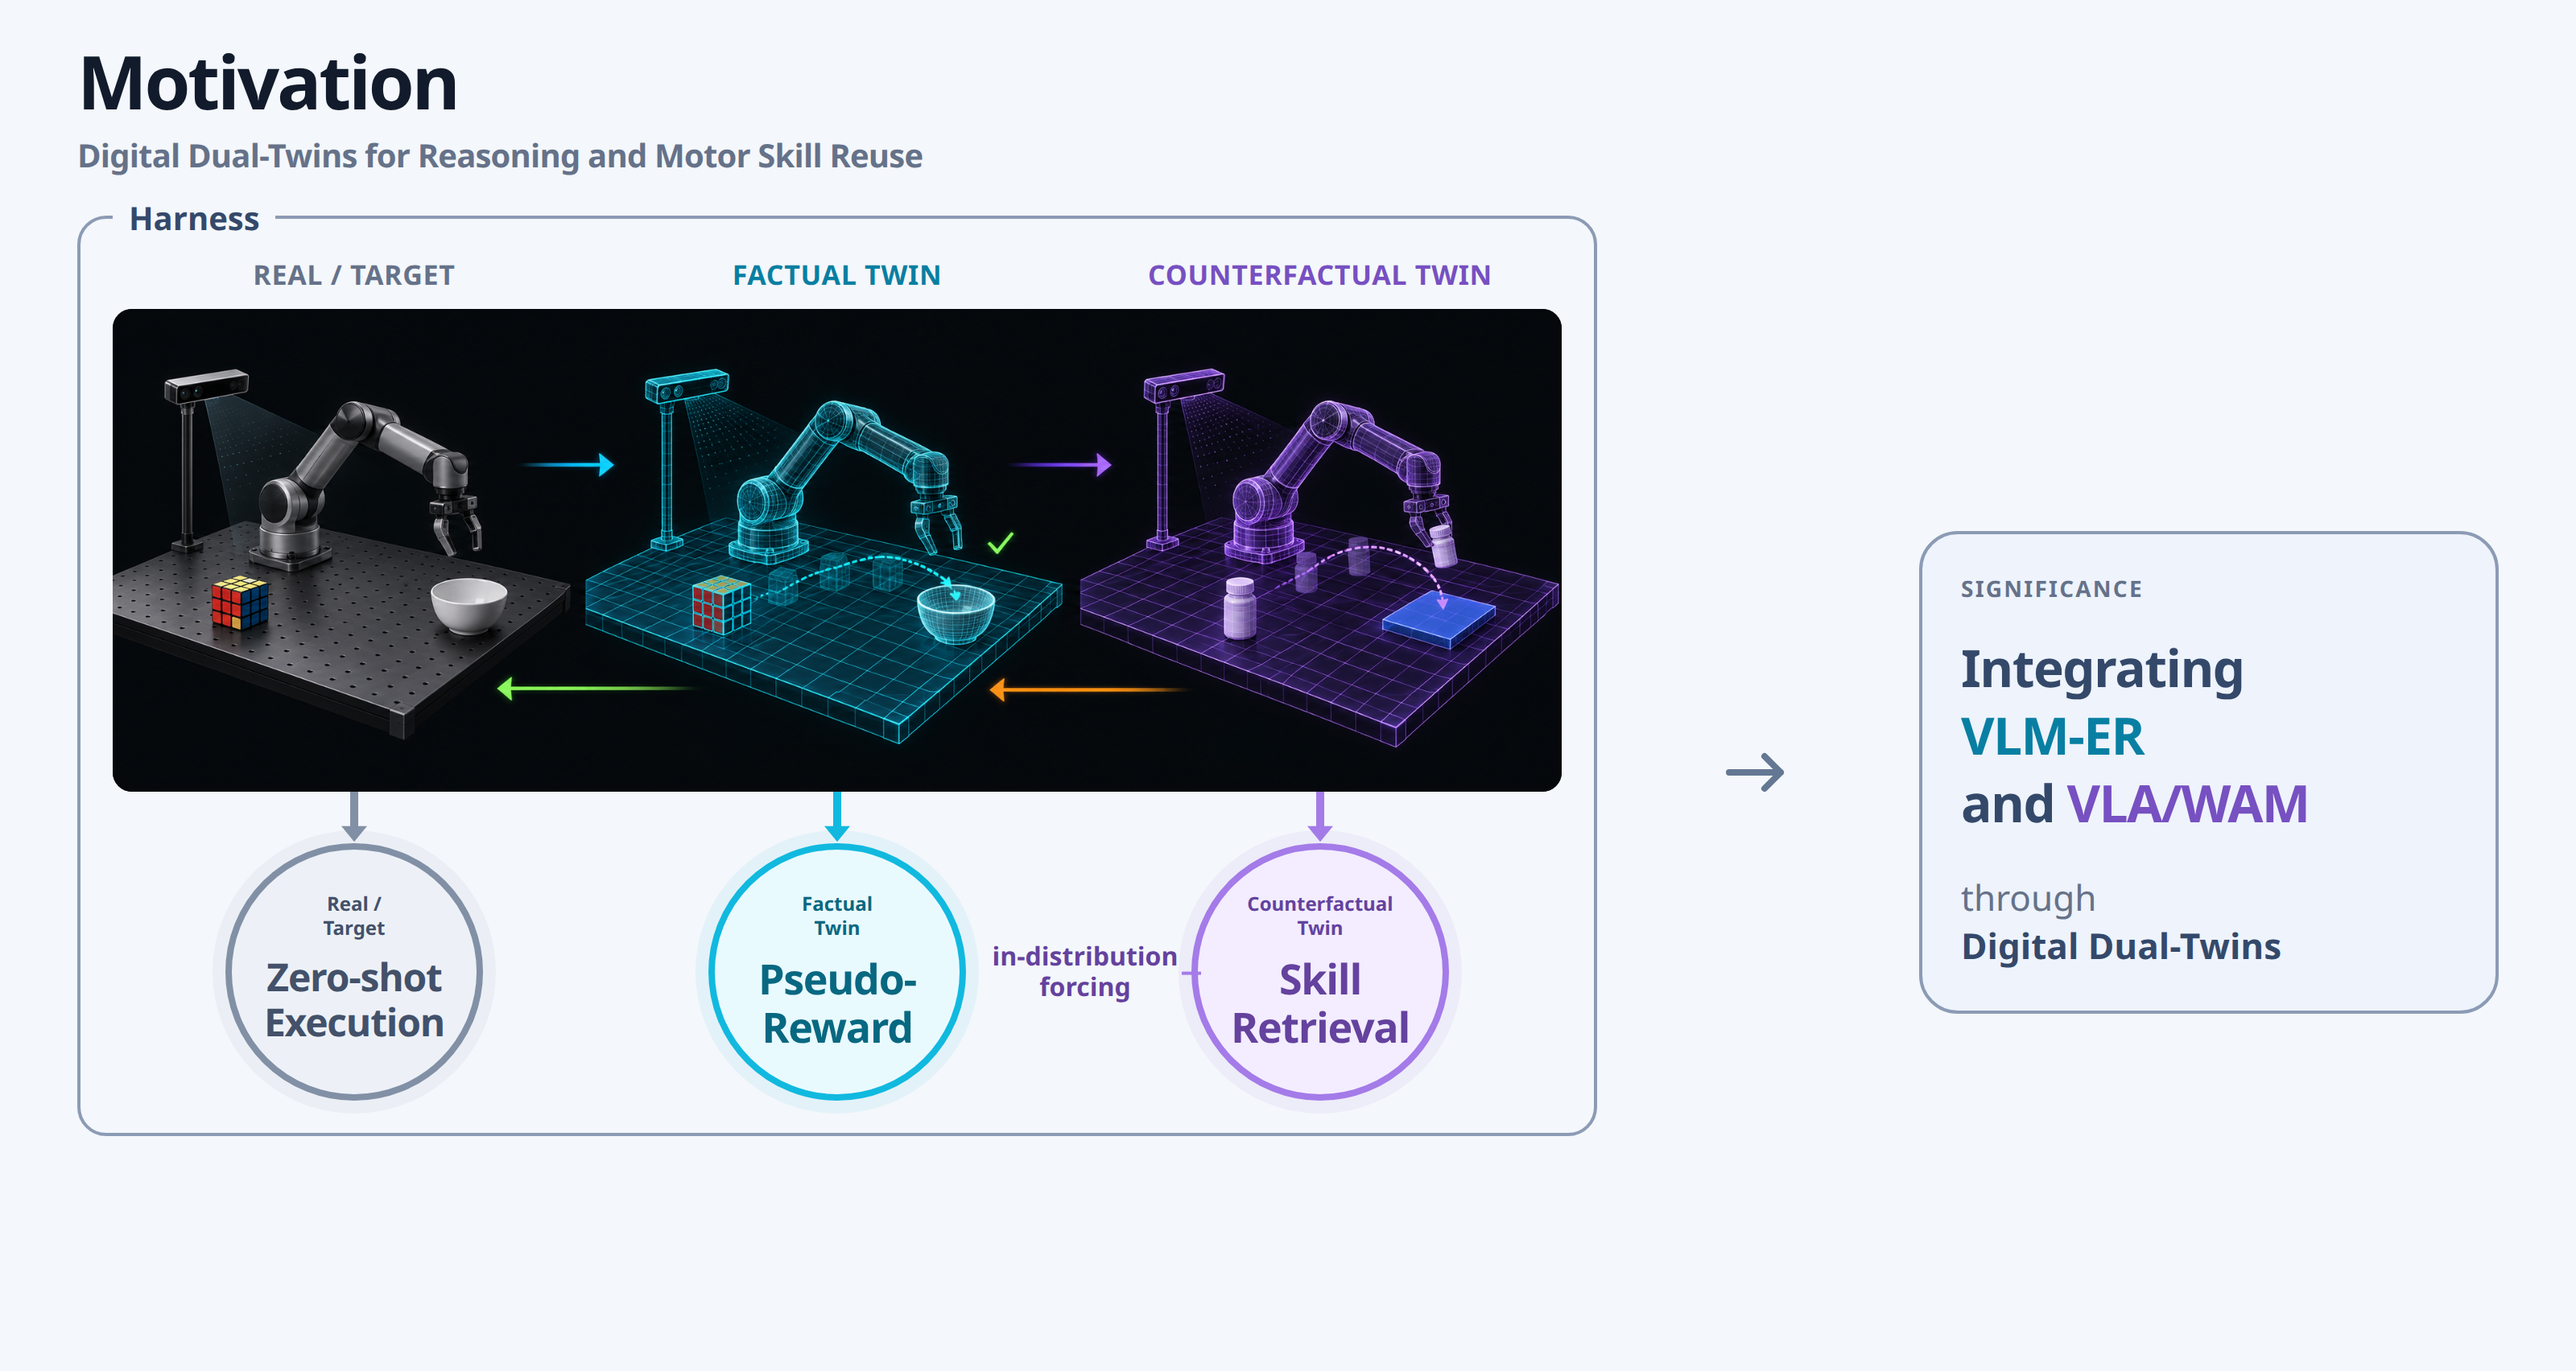
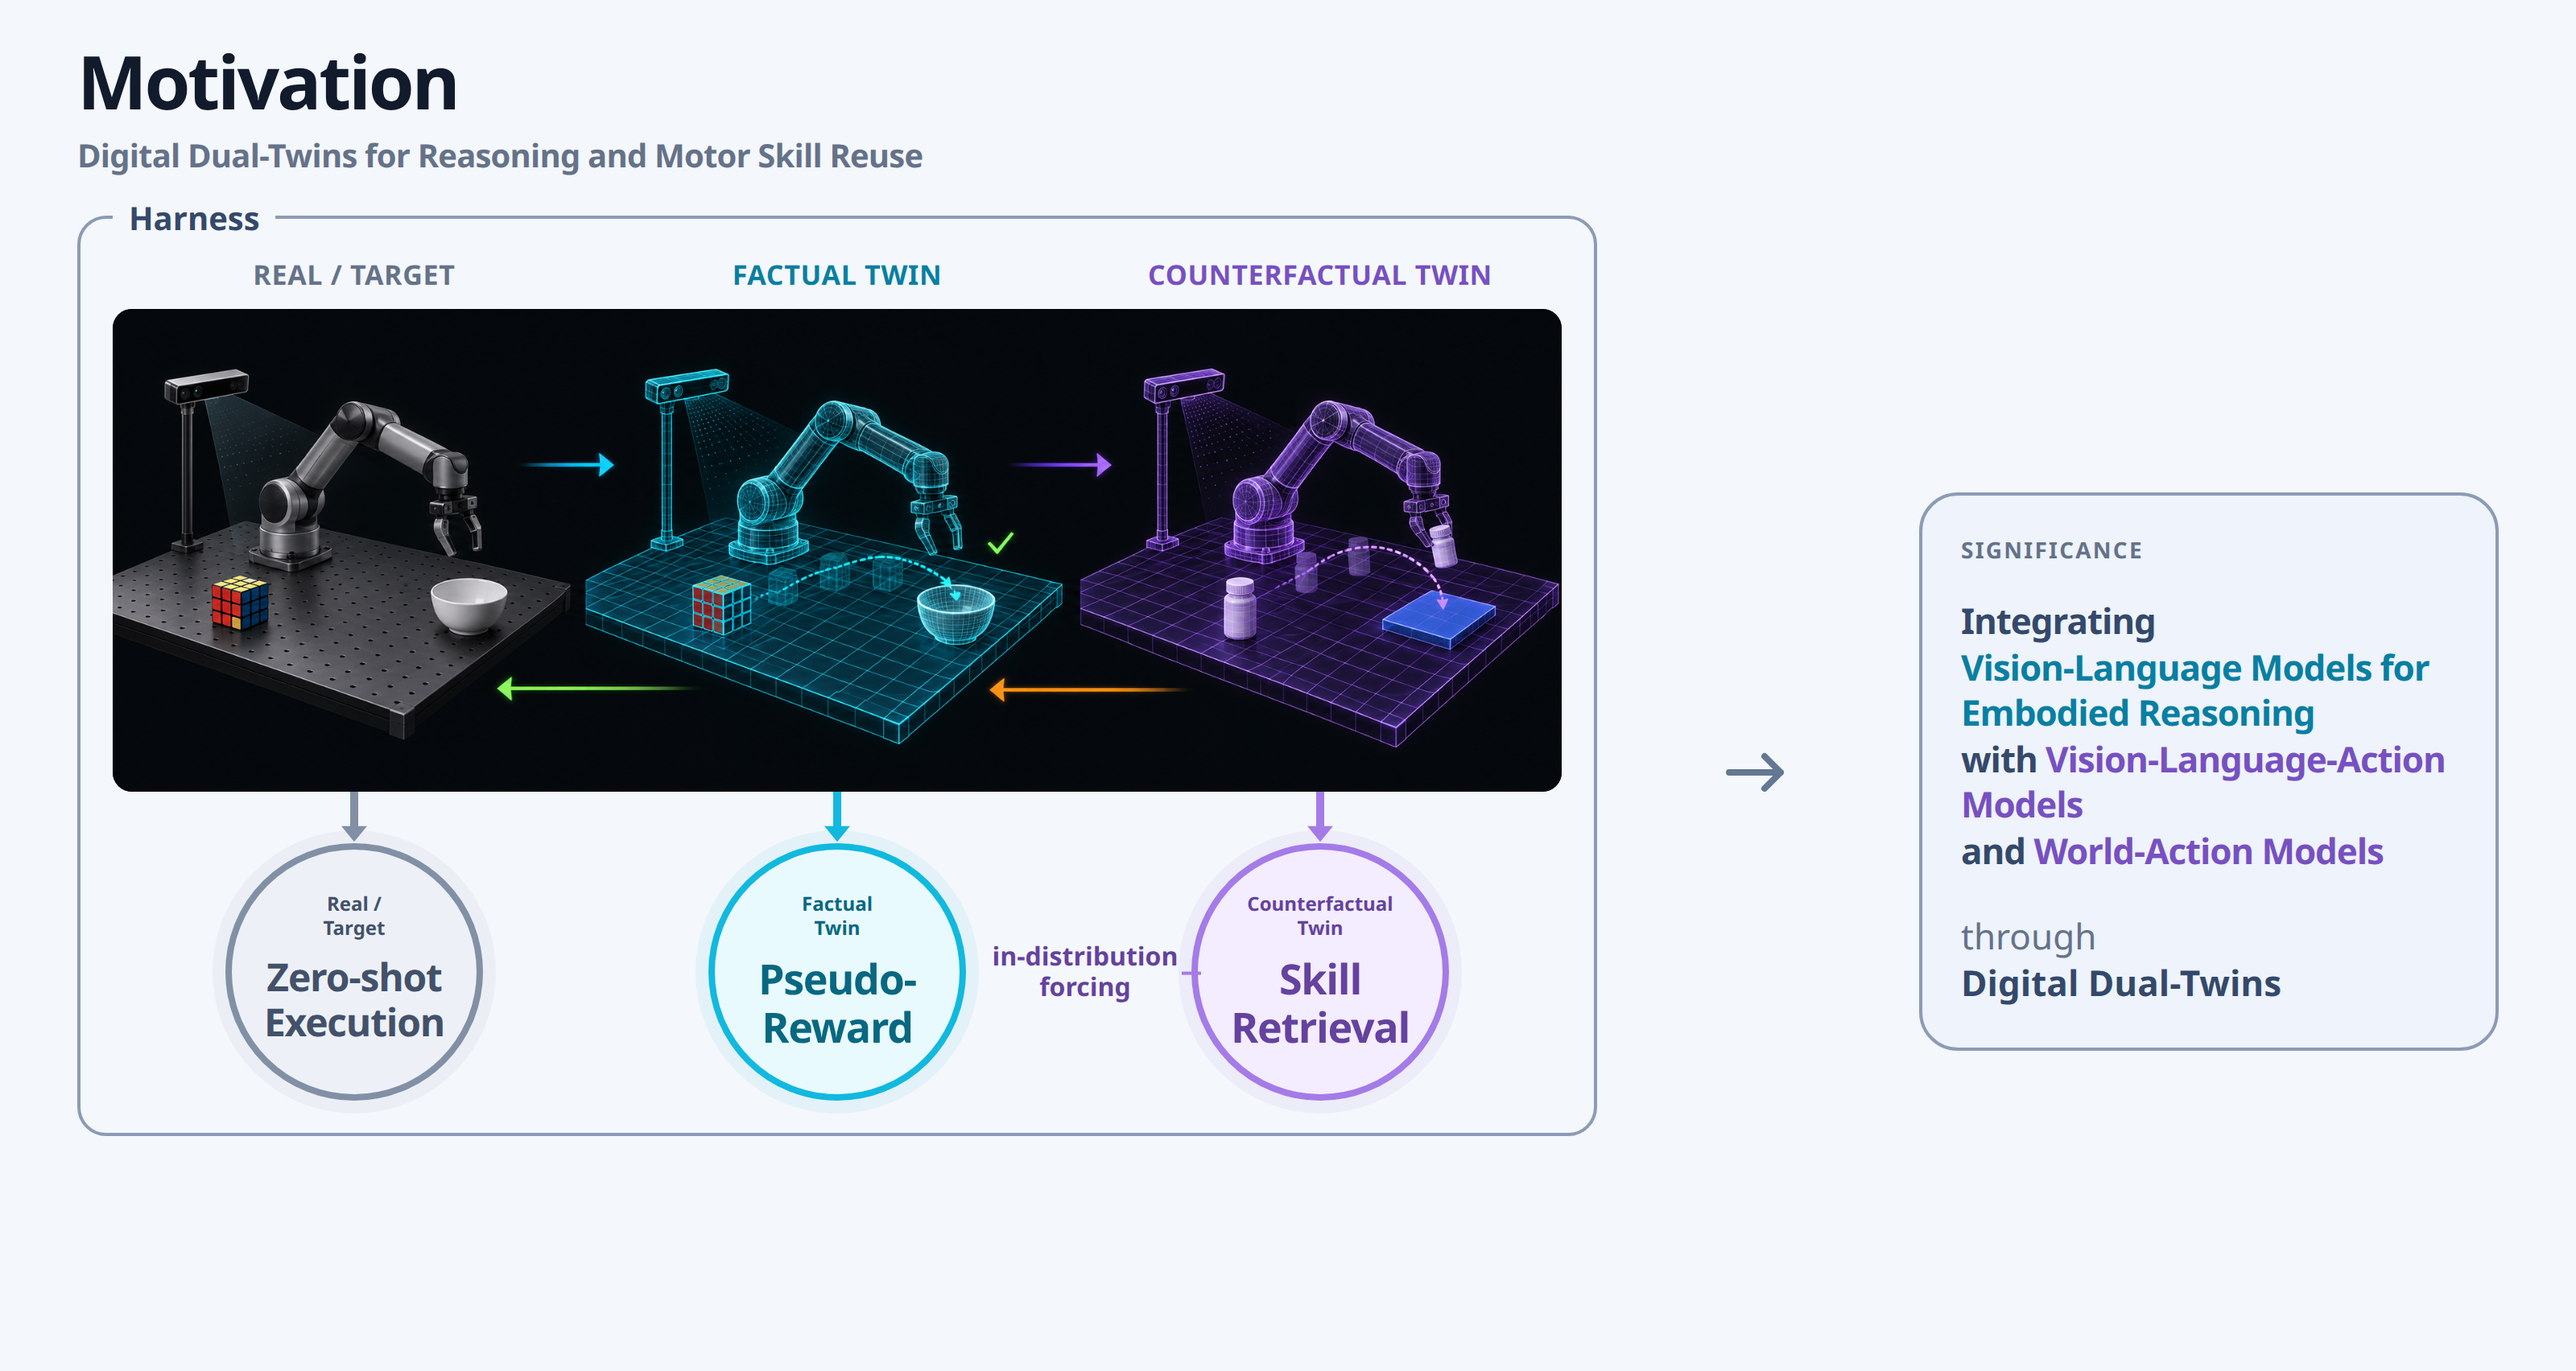
Expand AutoBot model names in internship CV

Changed region(s): [[0.75, 0.3732, 0.9375, 0.7465]]

diff --git a/internship.html b/internship.html
@@ -143,11 +143,11 @@
         <div class="section-body">
           <div class="cv-lab">
             <h3>AutoBot <span class="cv-status">Ongoing research · Planned submission to CVPR 2027</span></h3>
-            <p class="body-copy">AutoBot investigates a harness connecting vision-language models for embodied reasoning (VLM-ER) with vision-language-action (VLA) and world-action models (WAMs). The goal is to combine long-horizon planning and 3D spatial understanding with precise, contact-rich robot skills, addressing the impact of VLM-ER inference latency on execution and its limitations in demanding motor tasks. This ongoing work explores coordination between high-level reasoning and learned action generation, with simulation-assisted evaluation guiding adaptation to unfamiliar tasks.</p>
+            <p class="body-copy">AutoBot investigates a harness connecting vision-language models for embodied reasoning with vision-language-action models and world-action models. The goal is to combine long-horizon planning and 3D spatial understanding with precise, contact-rich robot skills, addressing the impact of embodied reasoning model inference latency on execution and its limitations in demanding motor tasks. This ongoing work explores coordination between high-level reasoning and learned action generation, with simulation-assisted evaluation guiding adaptation to unfamiliar tasks.</p>
           </div>
           <figure class="cv-overview">
             <a href="assets/autobot-overview.png" target="_blank" rel="noopener" aria-label="Open AutoBot conceptual overview at full size (new tab)">
-              <img src="assets/autobot-overview.png" alt="AutoBot Digital Dual-Twin concept linking VLM-ER reasoning and VLA/WAM motor skills through real target execution, factual-twin pseudo-reward, and counterfactual-twin skill retrieval." width="3200" height="1704" loading="lazy">
+              <img src="assets/autobot-overview.png" alt="AutoBot Digital Dual-Twin concept connecting vision-language models for embodied reasoning with vision-language-action models and world-action models through real target execution, factual-twin pseudo-reward, and counterfactual-twin skill retrieval." width="3200" height="1704" loading="lazy">
             </a>
             <figcaption><span>AutoBot conceptual overview · Ongoing research</span><a href="assets/autobot-overview.png" target="_blank" rel="noopener">View full size ↗</a></figcaption>
           </figure>

diff --git a/README.md b/README.md
@@ -5,7 +5,7 @@ This is a standalone static website; no build or dependencies are required.
 
 Edit the profile, projects, and email in `index.html`; edit appearance in `style.css`.
 The detailed Robotics / Embodied AI internship CV is `internship.html`, linked from the homepage, with page-specific styles in `internship.css`. It shares the existing portrait, research figures, and base styles. Its brief research summaries refer to the three linked papers; employment, availability, and individual implementation responsibilities are omitted until confirmed. CRePE's NeurIPS 2026 status is also listed on https://bispl-website.github.io/publications/.
-Section 04 introduces AutoBot as ongoing research and includes the user-selected Motivation slide from the October 7, 2026 deck as a conceptual overview (`assets/autobot-overview.png`). The figure is a rendered copy of the second slide, with a full-size image link.
+Section 04 introduces AutoBot as ongoing research and includes the user-selected Motivation slide from the October 7, 2026 deck as a conceptual overview (`assets/autobot-overview.png`). The figure is rendered from the second slide with model abbreviations expanded, with a full-size image link.
 CRePE and G4S titles, authors, and descriptions were checked against https://arxiv.org/abs/2605.12938 and https://arxiv.org/abs/2605.09984. DPP links to the existing project page.
 The affiliation and email come from prior manuscript conversations. Education is listed using the BISPL people page (https://bispl-website.github.io/people/): KAIST M.S. student and Hanyang B.S., EE. The user confirmed the education dates on October 7, 2026: KAIST from September 2025 to present; Hanyang from 2015 to 2024. Advisor, employment history, and CV download are omitted until confirmed.
 
